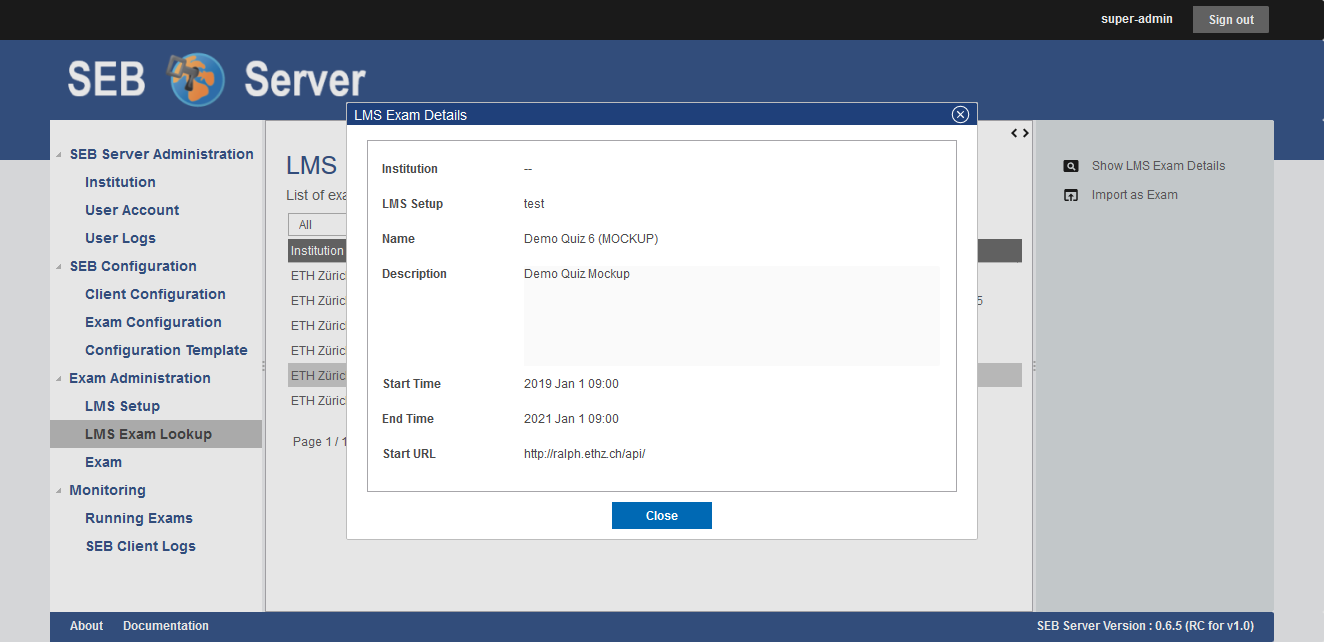
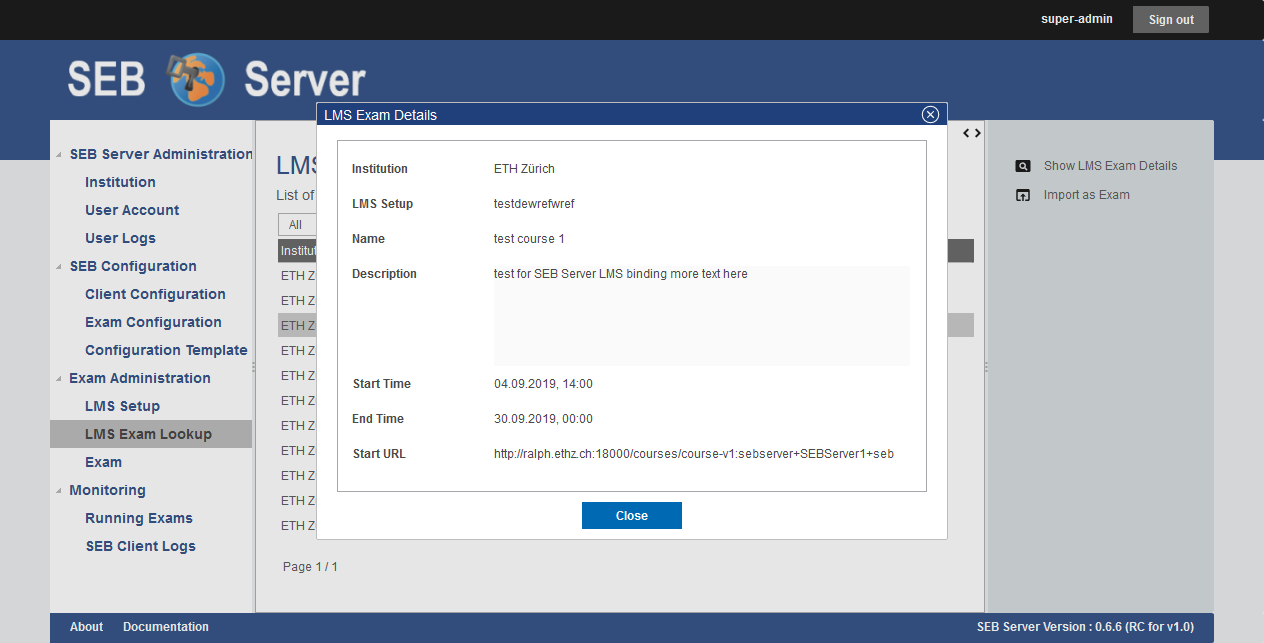
fixed minor bugs, sorting chapters and docu

diff --git a/src/main/java/ch/ethz/seb/sebserver/gbl/model/exam/Chapters.java b/src/main/java/ch/ethz/seb/sebserver/gbl/model/exam/Chapters.java
@@ -8,22 +8,31 @@
 
 package ch.ethz.seb.sebserver.gbl.model.exam;
 
+import java.util.ArrayList;
 import java.util.Collection;
+import java.util.Collections;
+import java.util.List;
+
+import org.apache.commons.lang3.ObjectUtils;
 
 import com.fasterxml.jackson.annotation.JsonCreator;
 import com.fasterxml.jackson.annotation.JsonIgnoreProperties;
 import com.fasterxml.jackson.annotation.JsonProperty;
+
+import ch.ethz.seb.sebserver.gbl.util.Utils;
 
 @JsonIgnoreProperties(ignoreUnknown = true)
 public final class Chapters {
 
     public static final String ATTR_CHAPTERS = "chapters";
 
-    public final Collection<Chapter> chapters;
+    public final List<Chapter> chapters;
 
     @JsonCreator
     public Chapters(@JsonProperty(ATTR_CHAPTERS) final Collection<Chapter> chapters) {
-        this.chapters = chapters;
+        final List<Chapter> c = (chapters != null) ? new ArrayList<>(chapters) : new ArrayList<>();
+        Collections.sort(c);
+        this.chapters = Utils.immutableListOf(c);
     }
 
     public Collection<Chapter> getChapters() {
@@ -40,7 +49,7 @@ public final class Chapters {
     }
 
     @JsonIgnoreProperties(ignoreUnknown = true)
-    public static final class Chapter {
+    public static final class Chapter implements Comparable<Chapter> {
 
         public static final String ATTR_NAME = "name";
         public static final String ATTR_ID = "id";
@@ -76,6 +85,14 @@ public final class Chapters {
             return builder.toString();
         }
 
+        @Override
+        public int compareTo(final Chapter o) {
+            if (o == null) {
+                return -1;
+            }
+
+            return ObjectUtils.compare(this.name, o.name);
+        }
     }
 
 }

diff --git a/src/main/java/ch/ethz/seb/sebserver/gui/content/QuizLookupList.java b/src/main/java/ch/ethz/seb/sebserver/gui/content/QuizLookupList.java
@@ -332,7 +332,7 @@ public class QuizLookupList implements TemplateComposer {
                         () -> FormBuilder.text(
                                 QuizData.QUIZ_ATTR_INSTITUTION_ID,
                                 QUIZ_DETAILS_INSTITUTION_TEXT_KEY,
-                                institutionNameFunction.apply(quizData.getModelId())))
+                                institutionNameFunction.apply(String.valueOf(quizData.institutionId))))
                 .addField(FormBuilder.singleSelection(
                         QuizData.QUIZ_ATTR_LMS_SETUP_ID,
                         QUIZ_DETAILS_LMS_TEXT_KEY,

diff --git a/src/main/java/ch/ethz/seb/sebserver/webservice/servicelayer/lms/impl/MockupLmsAPITemplate.java b/src/main/java/ch/ethz/seb/sebserver/webservice/servicelayer/lms/impl/MockupLmsAPITemplate.java
@@ -212,8 +212,9 @@ final class MockupLmsAPITemplate implements LmsAPITemplate {
                 final String _externalStartURI =
                         this.webserviceInfo.getHttpScheme() +
                                 "://" + externalAddressAlias + "/api/";
-                if (log.isDebugEnabled()) {
-                    log.debug("Use external address for course access: {}", _externalStartURI);
+
+                if (log.isTraceEnabled()) {
+                    log.trace("Use external address for course access: {}", _externalStartURI);
                 }
 
                 return new QuizData(

diff --git a/docs/exam_config.rst b/docs/exam_config.rst
@@ -26,7 +26,7 @@ filter use the clear symbol right to the lens symbol. See :ref:`gui-label` for m
 
 .. image:: images/exam_config/list.png
     :align: center
-    :target: https://raw.githubusercontent.com/SafeExamBrowser/seb-server/master/docs/exam_config/list.png
+    :target: https://raw.githubusercontent.com/SafeExamBrowser/seb-server/master/docs/images/exam_config/list.png
     
 To view details of a specific exam configuration either double-click on a list entry or select a list entry and use the "View Exam Configuration"
 action from the right action pane. In the detail view all general settings are shown and also a list of exams that uses this exam configuration.
@@ -46,7 +46,7 @@ is assigned to an exam the status changes automatically to "In Use" and the SEB 
 
 .. image:: images/exam_config/view.png
     :align: center
-    :target: https://raw.githubusercontent.com/SafeExamBrowser/seb-server/master/docs/exam_config/view.png
+    :target: https://raw.githubusercontent.com/SafeExamBrowser/seb-server/master/docs/images/exam_config/view.png
 
 An exam configuration has a general settings part (like other domain objects has within SEB Server) that defines the name, description and status
 of the exam configuration that are used to maintain the exam configurations SEB Server internally. And a exam configuration has, separated from 
@@ -64,7 +64,7 @@ while also publish them to exams that uses this exam configuration.
 
 .. image:: images/exam_config/settings.png
     :align: center
-    :target: https://raw.githubusercontent.com/SafeExamBrowser/seb-server/master/docs/exam_config/settings.png
+    :target: https://raw.githubusercontent.com/SafeExamBrowser/seb-server/master/docs/images/exam_config/settings.png
 
 .. note:: 
     Changes in SEB settings must be published to be available on exports, exams or other uses. Before publishing they are not
@@ -93,7 +93,7 @@ of the exam configuration. The key will be presented by a pop-up dialog where it
 
 .. image:: images/exam_config/settings.png
     :align: center
-    :target: https://raw.githubusercontent.com/SafeExamBrowser/seb-server/master/docs/exam_config/config_key.png
+    :target: https://raw.githubusercontent.com/SafeExamBrowser/seb-server/master/docs/images/exam_config/config_key.png
 
 
 Use Cases
@@ -224,8 +224,6 @@ SEB Setting Differences
 
 In the current version (1.0) of SEB Server, there are some differences to some SEB settings and also some SEB settings that are currently not 
 available on the SEB Server.
-
-
 
 **SEB settings currently not supported by the SEB Server**
 

diff --git a/docs/exam_import.rst b/docs/exam_import.rst
@@ -8,12 +8,16 @@ an exam from the one of the available courses from a LMS that has been setup to 
     If you don't have already set up a LMS binding within SEB Server and your institution, you have to do this first.
     More information about setting up a LMS binding can be found in the chapter :ref:`lms-setup-label`
     
-You can find the list of available courses provided form all LMS that are bound within your instituion by going to the "Exam Administration"
+You will find the list of available courses provided form all LMS that are bound within your institution by going to the "Exam Administration"
 section on the left hand side and choosing "LMS Exam Lookup". The SEB Server will present you the list of all available courses and you
 are able to filter and sort the list as usual to find to right course for import.
 
 .. image:: images/exam/lmsExamLookup.png
     :align: center
-    :target: https://raw.githubusercontent.com/SafeExamBrowser/seb-server/master/docs/exam/lmsExamLookup.png
+    :target: https://raw.githubusercontent.com/SafeExamBrowser/seb-server/master/docs/images/exam/lmsExamLookup.png
     
+You can view more details of a course by double-click on the specific list entry or by selecting the list entry and click the "Show LMS Exam Details" 
+action form the action pain on the right hand side. The application will open a pop-up with available detail information of the course.
+
+To import a specific course as an exam find the specific course on the list by using the filter and select the list entry. Use the "Import As Exam"
 
